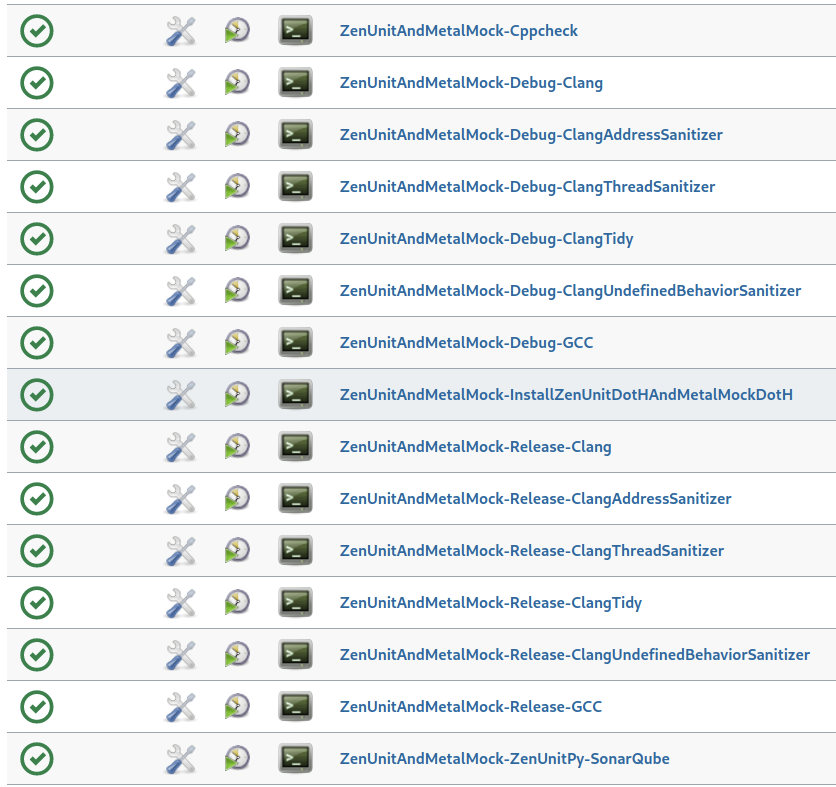
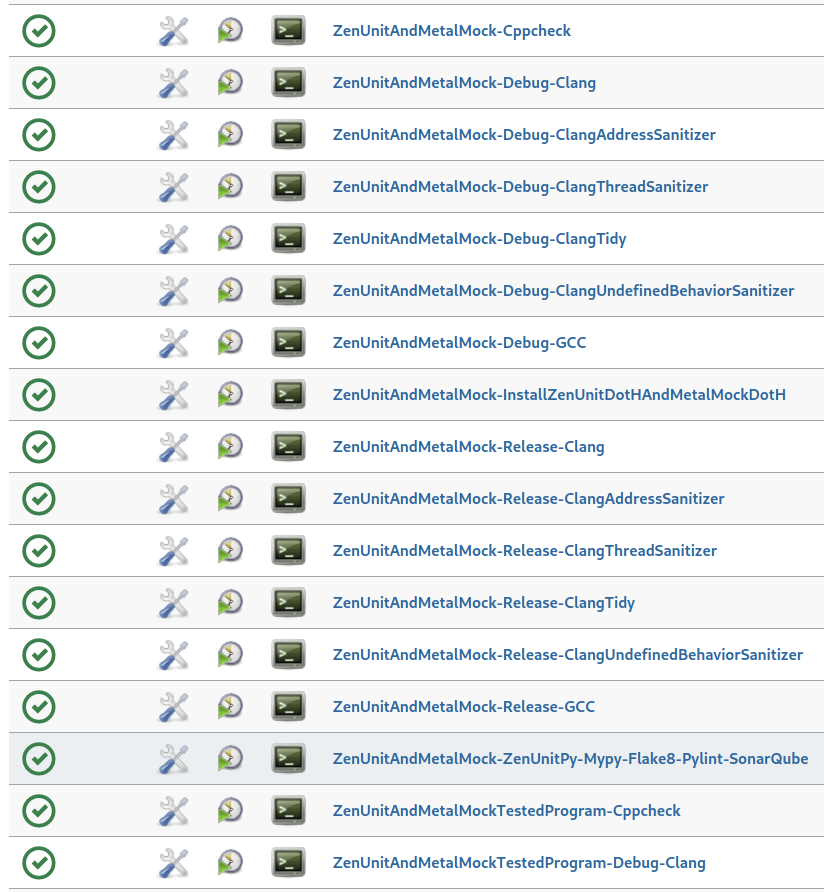
Update Linux Jenkins jobs screenshot

Changed region(s): [[0.0, 0.0, 1.0, 1.0]]

diff --git a/README.md b/README.md
@@ -13,7 +13,7 @@ TEST3X3(Add_ReturnsSumOfArguments,
    int x, int y, int expectedSum,
    0, 0, 0,
    1, 2, 3,
-   4, 5, 9)   
+   4, 5, 9)
 {
    const int sum = _calculator.Add(x, y);
    ARE_EQUAL(expectedSum, sum);
@@ -86,8 +86,8 @@ A "double strict" mocking framework requires that all mocked-out functions be bo
    * [Mutation Coverage Can Be Maximized By Testing With Random Values](#mutation-coverage-can-be-maximized-by-testing-with-random-values)
    * [ZenUnit and MetalMock Code Structure As It Appears In Visual Studio Code On Linux](#zenunit-and-metalmock-code-structure-as-it-appears-in-visual-studio-code-on-linux)
    * [ZenUnit and MetalMock Code Structure As It Appears In Visual Studio 2019 On Windows](#zenunit-and-metalmock-code-structure-as-it-appears-in-visual-studio-2019-on-windows)
-   * [Linux Jenkins Jobs Which Build, Cppcheck, clang-tidy, AddressSanitize, and UndefinedBehaviorSanitize ZenUnit and MetalMock's C++ Code and SonarQube Scan ZenUnit and MetalMock's Python Code](#linux-jenkins-jobs-which-build-cppcheck-clang-tidy-addresssanitize-and-undefinedbehaviorsanitize-zenunit-and-metalmocks-c-code-and-sonarqube-scan-zenunit-and-metalmocks-python-code)
-   * [Windows Jenkins Jobs Which Build and Cppcheck ZenUnit and MetalMock's C++ Code and Mypy-Flake8-Pylint-SonarQube ZenUnit and MetalMock's Python Code](#windows-jenkins-jobs-which-build-and-cppcheck-zenunit-and-metalmocks-c-code-and-mypy-flake8-pylint-sonarqube-zenunit-and-metalmocks-python-code)
+   * [Linux Jenkins Jobs Which Build, Cppcheck, clang-tidy, AddressSanitize, and UndefinedBehaviorSanitize ZenUnit and MetalMock's C++ Code and Mypy-Flake8-Pylint-SonarQube ZenUnit and MetalMock's CI/CD Python Code](#linux-jenkins-jobs-which-build-cppcheck-clang-tidy-addresssanitize-and-undefinedbehaviorsanitize-zenunit-and-metalmocks-c-code-and-mypy-flake8-pylint-sonarqube-zenunit-and-metalmocks-cicd-python-code)
+   * [Windows Jenkins Jobs Which Build and Cppcheck ZenUnit and MetalMock's C++ Code and Mypy-Flake8-Pylint-SonarQube ZenUnit and MetalMock's CI/CD Python Code](#windows-jenkins-jobs-which-build-and-cppcheck-zenunit-and-metalmocks-c-code-and-mypy-flake8-pylint-sonarqube-zenunit-and-metalmocks-cicd-python-code)
    * [How To Build and Run ZenUnit and MetalMock Unit Tests On Linux and Then Install ZenUnit.h and MetalMock.h](#how-to-build-and-run-zenunit-and-metalmock-unit-tests-on-linux-and-then-install-zenunith-and-metalmockh)
    * [How To Build and Run ZenUnit and MetalMock Unit Tests On Windows and Then Install ZenUnit.h and MetalMock.h](#how-to-build-and-run-zenunit-and-metalmock-unit-tests-on-windows-and-then-install-zenunith-and-metalmockh)
    * [ZenUnit Features Roadmap](#zenunit-features-roadmap)
@@ -1009,13 +1009,13 @@ Seen in this screenshot is function `ZenUnit::ARE_EQUAL_Defined` for asserting t
 
 ![ZenUnit and MetalMock Code Structure As It Appears In Visual Studio 2019 On Windows](Screenshots/ZenUnitAndMetalMockInVisualStudio2019.png)
 
-### Linux Jenkins Jobs Which Build, Cppcheck, clang-tidy, AddressSanitize, and UndefinedBehaviorSanitize ZenUnit and MetalMock's C++ Code and SonarQube Scan ZenUnit and MetalMock's Python Code
+### Linux Jenkins Jobs Which Build, Cppcheck, clang-tidy, AddressSanitize, and UndefinedBehaviorSanitize ZenUnit and MetalMock's C++ Code and Mypy-Flake8-Pylint-SonarQube ZenUnit and MetalMock's CI/CD Python Code
 
 A Jenkins Blue Ocean build pipeline builds the following ZenUnit and MetalMock Jenkins jobs on Fedora 33 with Clang 11.0.0 and GCC 10.2.1:
 
 ![Linux Jenkins Jobs](Screenshots/Linux/LinuxJenkinsJobs.png)
 
-### Windows Jenkins Jobs Which Build and Cppcheck ZenUnit and MetalMock's C++ Code and Mypy-Flake8-Pylint-SonarQube ZenUnit and MetalMock's Python Code
+### Windows Jenkins Jobs Which Build and Cppcheck ZenUnit and MetalMock's C++ Code and Mypy-Flake8-Pylint-SonarQube ZenUnit and MetalMock's CI/CD Python Code
 
 A Jenkins Blue Ocean build pipeline builds the following ZenUnit and MetalMock Jenkins jobs on Windows 10 with Visual Studio 2019:
 
